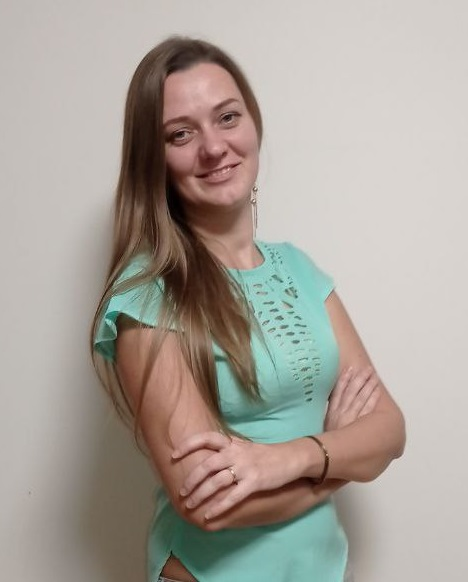
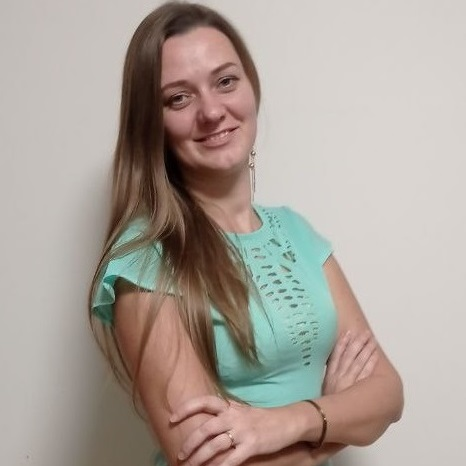
feat: Update html page structure

diff --git a/index.html b/index.html
@@ -5,63 +5,70 @@
     <meta name="viewport" content="width=device-width, initial-scale=1.0">
     <title>CV</title>
     <link rel="stylesheet" href="style.css">
-    <link rel="icon" type="image/png" href="assets/img/favicon.png">
+    <link rel="icon" type="image/png" href="assets/img/icon.png">
 </head>
 
 <body>
+  <div class="page-wrapper">
     <header>
         <nav class="nav">
             <ul class="nav-list">
-                <li class="nav-item"><a href="#contacts" class="nav-link">My Contact</a></li>
+                <li class="nav-item"><a href="#contacts" class="nav-link">Contacts</a></li>
                 <li class="nav-item"><a href="#profile" class="nav-link">About Me</a></li>
                 <li class="nav-item"><a href="#skills" class="nav-link">Skills</a></li>
                 <li class="nav-item"><a href="#education" class="nav-link">Education</a></li>
                 <li class="nav-item"><a href="#languages" class="nav-link">Languages</a></li>
-                <li class="nav-item"><a href="#projects" class="nav-link">My projects</a></li>
+                <li class="nav-item"><a href="#projects" class="nav-link">projects</a></li>
             </ul>
         </nav>
-    </header>
 
-    <main>
-        <div class="left-column">
+        <div class="foto-name">
             <div class="foto">
                 <img src="assets/img/123.jpg" alt="Tatsiana Hatskaya photo">
             </div>
+            <div class="name-blok">
+                <h1 class="name">Tatsiana Hatskaya</h1>
+                <h3 class="job">Junior front-end developer</h3>
+            </div>
+        </div>
+    </header>
 
-            <section class="section" id="contacts">
-                <h2 class="left-title">My contact info</h2>
+    <main>
+        <section class="left-column">
+            <div class="left-blok" id="contacts">
+                <h2 class="left-title">Contact info</h2>
                 <ul class="contacts-list">
                     <li>Vilnius, Lithuania</li>
                     <li>Telegram: @TatsHats</li>
                     <li>E-mail: 6642017@gmail.com</li>
                     <li>Discord: @tats_hats</li>
                 </ul>
-            </section>
+            </div>
 
-            <section class="section" id="education">
+            <div class="left-blok" id="education">
                 <h2 class="left-title">Education</h2>
                 <ul class="education-list">
                     <li>Higher education in Belarusian State Economic University (2010)</li>
                     <li>The course "C# Developer Profession" in the itProger programming school (2023).</li>
                     <li>The course "Javascript/Front-End" in the Rolling Scopes School (06.2024-06.2025)</li>
+                    <li>The course "Angular" in the Rolling Scopes School (in progress)</li>
                 </ul>
-            </section>
+            </div>
 
-            <section class="section" id="languages">
+            <div class="left-blok" id="languages">
                 <h2 class="left-title">Languages</h2>
                 <ul class="languages-list">
                     <li>Russian, Belarusian - native speaker</li>
-                    <li>English - A2 (B1 in progress)</li>
+                    <li>English - A2+ (B1 in progress)</li>
                     <li>Polish - A2</li>
                 </ul>
-            </section>
-        </div>
+            </div>
+        </section>
 
-        <div class="right-column">
-            <h1 class="name">Tatsiana Hatskaya</h1>
-            <h3 class="job">Junior front-end developer</h3>
+        <section class="right-column">
+            
 
-            <section class="section" id="profile">
+            <div class="right-blok" id="profile">
                 <h2 class="right-title">About Me</h2>
                 <div class="text-right-column">
                     <p>I have a higher education degree in economics. 
@@ -71,9 +78,9 @@
                         I am non-confrontational and easy to communicate with.
                     </p>
                 </div>
-            </section>
+            </div>
 
-            <section class="section" id="skills">
+            <div class="right-blok" id="skills">
                 <h2 class="right-title">My skills</h2>
                 <ul class="skills-list">
                     <li>Confident knowledge of HTML5 and CSS3 (+SASS/SCSS);</li>
@@ -82,11 +89,12 @@
                     <li>Version control with Git;</li>
                     <li>SQL and databases (MySQL, PostgreSQL);</li>
                     <li>Basic knowledge of C# (diploma available);</li>
-                    <li>Basic knowledge of C++ and MQL4.</li>
+                    <li>Basic knowledge of C++ and MQL4;</li>
+                    <li>Confident knowledge of Figma and Canva.</li>
                 </ul>
-            </section>
+            </div>
 
-            <section class="section" id="projects">
+            <div class="right-blok" id="projects">
                 <h2 class="right-title">My projects</h2>
                 <p class="text-right-column">Examples of completed projects:</p>
                 <div class="projects-example">
@@ -95,16 +103,19 @@
                     <video class="video-example" src="./assets/video/ScreenRecorderProject8.mp4" controls></video>
                     <video class="video-example" src="./assets/video/ScreenRecorderProject9.mp4" controls></video>
                 </div>
-            </section>
-        </div>
+            </div>
+        </section>
     </main>
 
     <footer>
-        <a class="github" href="https://github.com/TatsHats">GitHub page</a>
-        <a class="logo" href="https://rs.school/courses/javascript-ru">
-            <img src="assets/img/logo-RS.png" alt="logo Rolling Scopes School">
+        <a class="github" href="https://github.com/TatsHats">
+            <img src="/assets/img/logo-gh.png" alt="github image">
         </a>
-        <p>2024</p>
+        <p>2025</p>
+        <a class="logo" href="https://rs.school/courses/javascript-ru">
+            <img src="assets/img/logo-rs.png" alt="logo Rolling Scopes School">
+        </a>
     </footer>
+  </div>
 </body>
 </html>

diff --git a/style.css b/style.css
@@ -1,6 +1,14 @@
 /*---------- general page settings ----------*/
 @import url('https://fonts.googleapis.com/css2?family=Exo+2:wght@300;600&display=swap');
 
+:root {
+    --bg-dark: #12342C;
+    --bg-light: #ffffff;
+    --neon-purple: #ed5ff7;
+    --neon-red: #ff6b95;
+    --neon-blue: #94cbff;
+}
+
 * {
     box-sizing: border-box;
 }
@@ -18,17 +26,26 @@ html {
     scroll-behavior: smooth;
 }
 
-
+.page-wrapper {
+    max-width: 1200px;
+    box-shadow: 0 0 15px rgba(0, 0, 0, 0.5);
+}
 /*-------------- header settings -------------*/
 header {
     width: 100%;
-    background: #2C8770;
-    padding: 15px 0;
+    background-image: url('/assets/img/backgr.jpg');
+    background-size: cover;
+    background-repeat: no-repeat;
+    background-position: center;
+    color: white;
 }
 
 .nav {
     display: flex;
     justify-content: center;
+    padding: 20px 0;
+    text-transform: uppercase;
+    font-size: 1.2rem;
 }
 
 .nav-list {
@@ -37,6 +54,7 @@ header {
     margin: 0;
     display: flex;
     cursor: pointer;
+    border-bottom: 3px solid var(--neon-purple);
 }
 
 .nav-item {
@@ -50,26 +68,37 @@ header {
 
 .nav-link:hover {
     text-decoration: underline;
-    font-weight: bold;
-    box-shadow: 0 5px 10px -5px rgb(255, 255, 255);
+    color: var(--neon-purple);
+    box-shadow: 0 5px 10px -5px var(--neon-purple);
 }
 
+.foto-name {
+    display: flex;
+    align-items: end;
+    margin-left: 50px;
+}
+
+.foto img {
+    width: 200px;
+    height: auto;
+    padding: 0;
+    margin: 0 0 0 50px;
+}
 
 /*--------------- main settings --------------*/
 main {
     display: flex;
     width: 100%;
-    max-width: 1600px;
 }
 
 .left-column {
     width: 35%;
-    background: linear-gradient(#2C8770, #12342C);
+    background: var(--bg-dark);
     box-sizing: border-box;
 }
 
 .right-column {
-    background-color: #e8f7f1;
+    background-color: var(--bg-light );
     width: 65%;
     padding: 0 40px;
     box-sizing: border-box;
@@ -93,7 +122,7 @@ main {
 
 .right-title {
     background: #2B826D;
-    padding: 5px 20px;
+    padding: 5px 120px;
     color: white;
     margin: 40px 0 20px 0;
 }
@@ -101,13 +130,6 @@ main {
 .left-title {
     color: white;
     padding: 20px 10px 5px 20px;
-}
-
-.foto img {
-    width: 100%;
-    height: auto;
-    padding: 0;
-    margin: 0;
 }
 
 .contacts-list, .education-list, .languages-list {
@@ -154,7 +176,7 @@ footer a {
     margin: 10px 0 0 0;
 }
 
-.logo img {
+.logo img, .github img {
     width: 30px;
     height: auto;
 }
